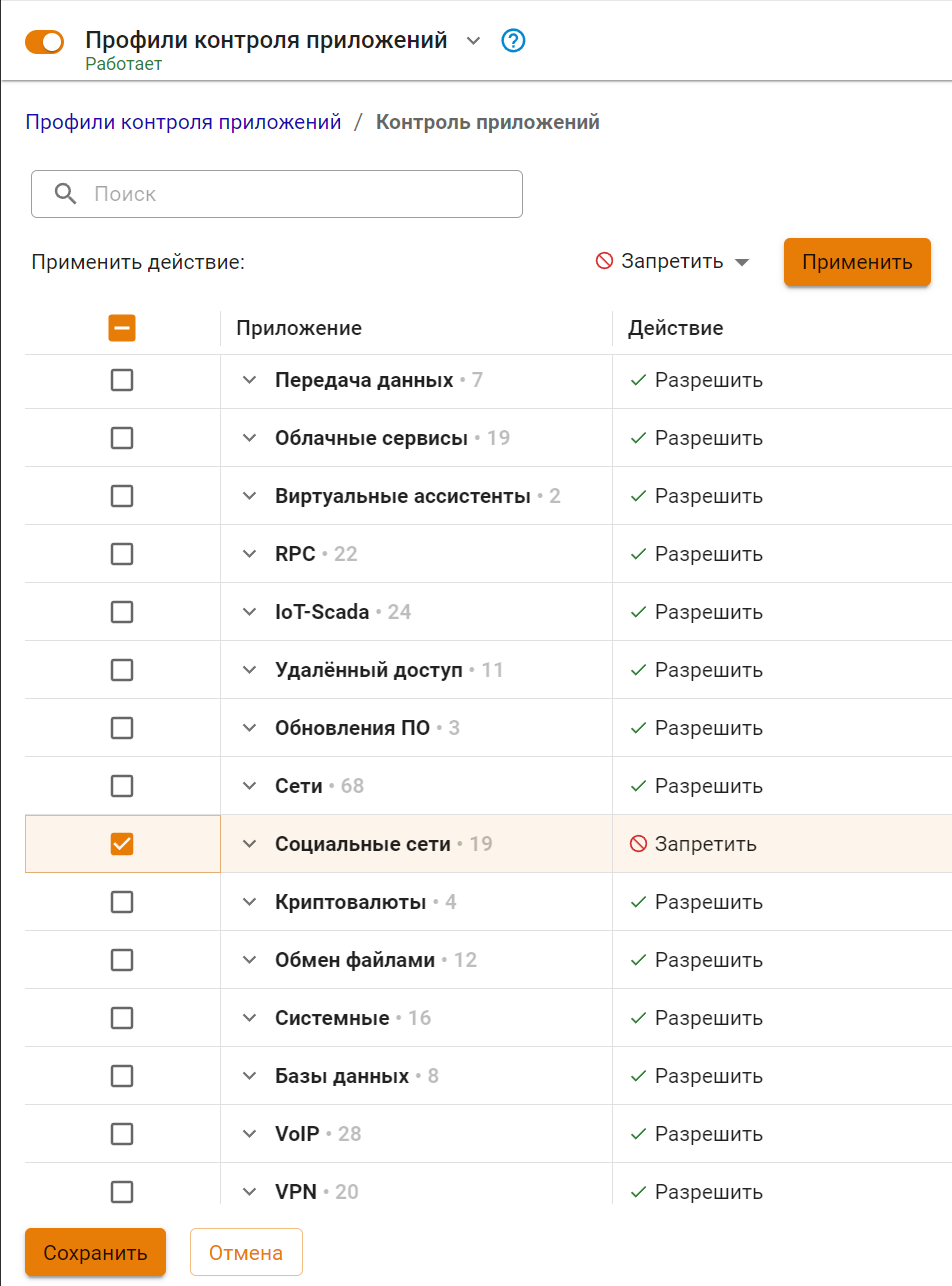
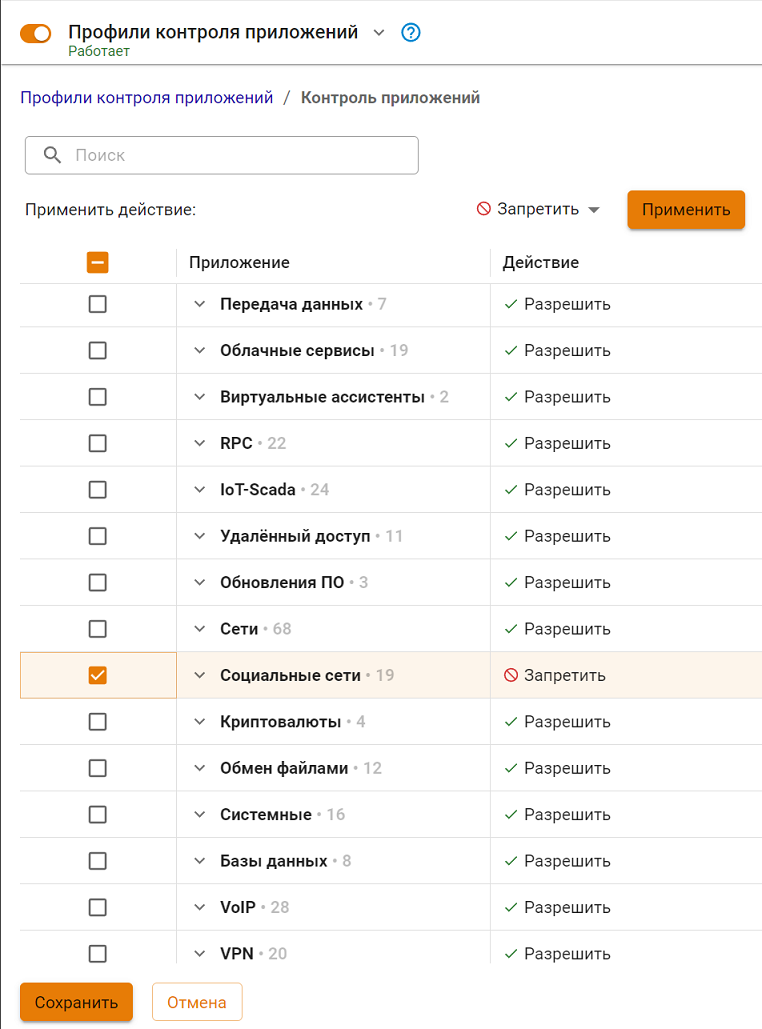
ICS-39848 УТМ. Добавить скрин таблицы Файрвола с профилями КП в версии 17.5 и 18

diff --git a/settings/security-profiles/application-control.md b/settings/security-profiles/application-control.md
@@ -1,15 +1,15 @@
 ---
 description: >-
-  Описание модуля Контроль приложений в NGFW версии 18.Х.
+  Описание раздела Профили контроля приложений в NGFW версии 18.Х.
 ---
 
-# Контроль приложений
+# Профили контроля приложений
 
 В разделе **Профили безопасности -> Профили контроля приложений** создаются профили безопасности, разрешающие или запрещающие доступ пользователя к заданному администратором набору приложений и протоколов. Для выявления протоколов приложений осуществляется глубокий анализ трафика (Deep Packet Inspection - DPI).
 
 {% hint style="success" %}
-Названия служб раздела _Контроль приложений_: `ideco-app-backend` и `ideco-app-control-nfq`.\
-Список имен служб для других разделов доступен по [ссылке](/settings/server-management/terminal.md).
+Названия служб раздела _Профили контроля приложений_: `ideco-app-backend` и `ideco-app-control-nfq`.\
+Список имен служб для других разделов доступен по [ссылке](/settings/server-management/terminal/README.md).
 {% endhint %}
 
 В 18 версии Ideco NGFW созданные в разделе **Профили безопасности -> Профили контроля приложений** профили безопасности применяются при создании правил в разделе **Правила трафика -> Файрвол**.
@@ -18,7 +18,7 @@ description: >-
 Если профиль не добавлен в правила таблицы FORWARD или INPUT раздела **Правила трафика -> Файрвол**, трафик не будет фильтроваться **Контролем приложений**
 {% endhint %}
 
-## Особенности обработки трафика через **Контроль приложений**
+## Особенности обработки трафика с помощью профиля контроля приложений
 
 По сравнению с более ранними версиями в 18 версии поменялась последовательность обработки FORWARD трафика. В предыдущих версиях FORWARD трафик сначала проходит модуль **Контроль приложений**, а затем **Файрвол**. В 18 версии в модуль **Контроль приложений** отправляется только трафик, соответствующий разрешающему правилу **Файрвола** с включенной проверкой через **Контроль приложений**.
 
@@ -29,12 +29,12 @@ description: >-
 ## Создание профилей и добавление в правила **Файрвола**
 
 {% hint style="info" %}
-Рекомендуем объединить пользователей в несколько групп/подгрупп (например, в соответствии с организационной структурой компании) и настроить профиль **Контроля приложений** отдельно для каждой группы.
+Рекомендуем объединить пользователей в несколько групп/подгрупп (например, в соответствии с организационной структурой компании) и настроить профиль контроля приложений отдельно для каждой группы.
 {% endhint %}
 
 **Пример**. Необходимо ограничить доступ к социальным сетям пользователям группы "Бухгалтерия".
 
-### Создание профиля в Контроле приложений
+### Создание профиля контроля приложений
 
 1\. Перейдите в раздел **Профили безопасности -> Профили контроля приложений** и нажмите **Добавить**.
 
@@ -60,7 +60,7 @@ description: >-
 
 ![](/.gitbook/assets/application-control8.png)
 
-* **Протокол** - выберите протокол, соответствующий трафику, который требуется фильтровать **Контролем приложений**;
+* **Протокол** - выберите протокол, соответствующий трафику, который требуется фильтровать с помощью профиля контроля приложений;
 * **Источник** - выберите **Адрес**, **Зону** и **HIP-профиль** источника трафика;
 * **Назначение** - выберите **Адрес** и **Зону** назначения трафика;
 * **Действие** - выберите **Разрешить**;
@@ -77,9 +77,9 @@ description: >-
 
 <details>
 
-<summary> Пример создания нескольких профилей Контроля приложений </summary>
+<summary> Пример создания нескольких профилей контроля приложений </summary>
 
-**Пример**. Необходимо настроить профили **Контроля приложений** в соответствии с требованиями:
+**Пример**. Необходимо настроить профили контроля приложений в соответствии с требованиями:
 * Всем пользователям запрещены компьютерные игры, контент для взрослых, майнинг и криптовалюты;
 * Доступ к социальным сетям разрешен только Отделу продвижения;
 * Доступ к стриминговым сервисам разрешен только Отделу маркетинга;
@@ -128,11 +128,9 @@ description: >-
 
 ![](/.gitbook/assets/application-control16.png)
 
-11\. Чтобы трафик проходил в соответствии с условиями примера 2, установите следующую последовательность:
-* Первое правило (верхнее) разрешает трафик с применением профиля **Для Федора Федорова**;
-* Второе правило - с применением профиля **Для Отдела маркетинга**;
-* Третье правило - с применением профиля **Для Отдела продвижения**;
-* Нижнее правило - с применением профиля **Запрет приложений**.
+11\. Чтобы трафик проходил в соответствии с условиями примера, установите в **Файрволе** следующую последовательность правил:
+
+![](/.gitbook/assets/application-control18.png)
 
 Чем выше в таблице стоит правило, тем выше его приоритет. Разрешающее правило для сотрудника не сработает, если выше в таблице **Файрвола** находится правило, запрещающее трафик для отдела, в котором работает этот сотрудник.
 

diff --git a/settings/server-management/terminal/README.md b/settings/server-management/terminal/README.md
@@ -15,4 +15,4 @@
 
 ## Таблица служб
 
-<table><thead><tr><th width="329">Раздел</th><th>Имя службы</th></tr></thead><tbody><tr><td>Файрвол</td><td>ideco-nflog;ideco-firewall-backend</td></tr><tr><td>Контроль приложений</td><td>ideco-app-backend; ideco-app-control-nfq</td></tr><tr><td>Контент-фильтр</td><td>ideco-content-filter-backend</td></tr><tr><td>Ограничение скорости</td><td>ideco-shaper-backend</td></tr><tr><td>Антивирусы веб-трафика</td><td>ideco-av-backend;</td></tr><tr><td>Предотвращение вторжений</td><td>ideco-suricata-backend; ideco-suricata; ideco-suricata-event-syncer; ideco-suricata-profiles-syncer;</td></tr><tr><td>Объекты</td><td>ideco-alias-backend</td></tr><tr><td>Квоты</td><td>ideco-quotas-backend; systemd-quotacheck</td></tr><tr><td>Сетевые интерфейсы</td><td>ideco-network-backend; ideco-network-nic</td></tr><tr><td>Балансировка и резервирование, Маршрутизация</td><td>ideco-routing-backend</td></tr><tr><td>BGP, OSPF</td><td>ideco-routing-backend</td></tr><tr><td>Прокси</td><td>ideco-proxy-backend; squid</td></tr><tr><td>Обратный прокси</td><td>ideco-reverse-backend</td></tr><tr><td>DNS</td><td>ideco-dns-backend; unbound</td></tr><tr><td>DDNS</td><td>ideco-dns-backend</td></tr><tr><td>DHCP</td><td>ideco-dnsmasq</td></tr><tr><td>IPsec</td><td>ideco-ipsec-backend; strongswan</td></tr><tr><td>Центральная консоль</td><td>ideco-central-console-backend</td></tr><tr><td>Кластеризация</td><td>ideco-cluster-backend; ideco-cluster-backup-pusher</td></tr><tr><td>Автоматическое обновление</td><td>ideco-sysupdate-backend</td></tr><tr><td>Бэкапы</td><td>ideco-backup-backend; ideco-backup-create; ideco-backup-restore; ideco-backup-rotate</td></tr><tr><td>Лицензия</td><td>ideco-license-backend</td></tr><tr><td>VPN-подключения</td><td>ideco-accel-l2tp; ideco-accel-pptp; ideco-accel-sstp; ideco-vpn-servers-backend; ideco-vpn-authd</td></tr><tr><td>Авторизация</td><td>ideco-auth-backend</td></tr><tr><td>Веб-аутентификация, Двухфакторная аутентификация</td><td>ideco-web-authd</td></tr><tr><td>Active Directory</td><td>ideco-ad-backend; ideco-ad-log-collector@&#x3C;имя домена></td></tr><tr><td>ALD Pro</td><td>ideco-ald-rest; ideco-ald-backend</td></tr><tr><td>Ideco Client</td><td>ideco-agent-backend; ideco-agent-websocket</td></tr><tr><td>Syslog</td><td>ideco-monitor-backend</td></tr><tr><td>Обнаружение устройств</td><td>ideco-netscan-backend</td></tr><tr><td>Web Application Firewall</td><td>ideco-waf-backend; ideco-waf-event-syncer</td></tr><tr><td>IGMP Proxy</td><td>ideco-igmpproxy-backend; ideco-igmpproxy</td></tr></tbody></table>
+<table><thead><tr><th width="329">Раздел</th><th>Имя службы</th></tr></thead><tbody><tr><td>Файрвол</td><td>ideco-nflog;ideco-firewall-backend</td></tr><tr><td>Профили контроля приложений</td><td>ideco-app-backend; ideco-app-control-nfq</td></tr><tr><td>Контент-фильтр</td><td>ideco-content-filter-backend</td></tr><tr><td>Ограничение скорости</td><td>ideco-shaper-backend</td></tr><tr><td>Антивирусы веб-трафика</td><td>ideco-av-backend;</td></tr><tr><td>Предотвращение вторжений</td><td>ideco-suricata-backend; ideco-suricata; ideco-suricata-event-syncer; ideco-suricata-profiles-syncer;</td></tr><tr><td>Объекты</td><td>ideco-alias-backend</td></tr><tr><td>Квоты</td><td>ideco-quotas-backend; systemd-quotacheck</td></tr><tr><td>Сетевые интерфейсы</td><td>ideco-network-backend; ideco-network-nic</td></tr><tr><td>Балансировка и резервирование, Маршрутизация</td><td>ideco-routing-backend</td></tr><tr><td>BGP, OSPF</td><td>ideco-routing-backend</td></tr><tr><td>Прокси</td><td>ideco-proxy-backend; squid</td></tr><tr><td>Обратный прокси</td><td>ideco-reverse-backend</td></tr><tr><td>DNS</td><td>ideco-dns-backend; unbound</td></tr><tr><td>DDNS</td><td>ideco-dns-backend</td></tr><tr><td>DHCP</td><td>ideco-dnsmasq</td></tr><tr><td>IPsec</td><td>ideco-ipsec-backend; strongswan</td></tr><tr><td>Центральная консоль</td><td>ideco-central-console-backend</td></tr><tr><td>Кластеризация</td><td>ideco-cluster-backend; ideco-cluster-backup-pusher</td></tr><tr><td>Автоматическое обновление</td><td>ideco-sysupdate-backend</td></tr><tr><td>Бэкапы</td><td>ideco-backup-backend; ideco-backup-create; ideco-backup-restore; ideco-backup-rotate</td></tr><tr><td>Лицензия</td><td>ideco-license-backend</td></tr><tr><td>VPN-подключения</td><td>ideco-accel-l2tp; ideco-accel-pptp; ideco-accel-sstp; ideco-vpn-servers-backend; ideco-vpn-authd</td></tr><tr><td>Авторизация</td><td>ideco-auth-backend</td></tr><tr><td>Веб-аутентификация, Двухфакторная аутентификация</td><td>ideco-web-authd</td></tr><tr><td>Active Directory</td><td>ideco-ad-backend; ideco-ad-log-collector@&#x3C;имя домена></td></tr><tr><td>ALD Pro</td><td>ideco-ald-rest; ideco-ald-backend</td></tr><tr><td>Ideco Client</td><td>ideco-agent-backend; ideco-agent-websocket</td></tr><tr><td>Syslog</td><td>ideco-monitor-backend</td></tr><tr><td>Обнаружение устройств</td><td>ideco-netscan-backend</td></tr><tr><td>Web Application Firewall</td><td>ideco-waf-backend; ideco-waf-event-syncer</td></tr><tr><td>IGMP Proxy</td><td>ideco-igmpproxy-backend; ideco-igmpproxy</td></tr></tbody></table>

diff --git a/SUMMARY.md b/SUMMARY.md
@@ -86,7 +86,7 @@
   * [Квоты](settings/access-rules/quotas.md)
 * [Профили безопасности](settings/security-profiles/README.md)
   * [Web Application Firewall](settings/security-profiles/waf-profiles.md)
-  * [Контроль приложений](settings/security-profiles/application-control.md)
+  * [Профили контроля приложений](settings/security-profiles/application-control.md)
   * [Предотвращение вторжений](settings/security-profiles/ips-profiles.md)
 * [Сервисы](settings/services/README.md)
   * [Сетевые интерфейсы](settings/services/connection-to-provider/README.md)
